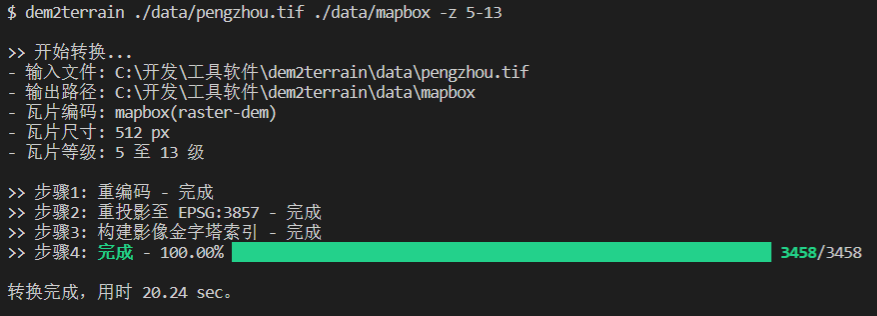
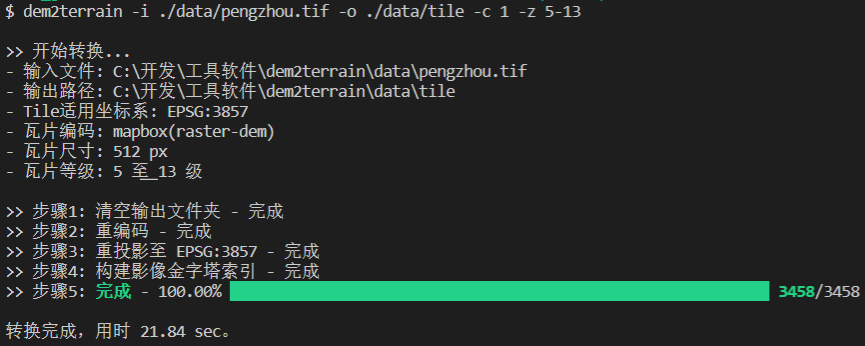
新增配置文件执行

Changed region(s): [[0.0, 0.5696, 0.9988, 0.9968], [0.0, 0.1139, 0.6243, 0.5411], [0.0, 0.0, 0.6867, 0.0854]]

diff --git a/src/util.js b/src/util.js
@@ -59,6 +59,8 @@ function mkdirsSync(dirName) {
  * @param {*} fold 
  */
 function emptyDir(fold) {
+  if(fs.existsSync(fold)===false)
+    return;
   const files = fs.readdirSync(fold);
   files.forEach(file => {
     const filePath = path.join(fold, file);
